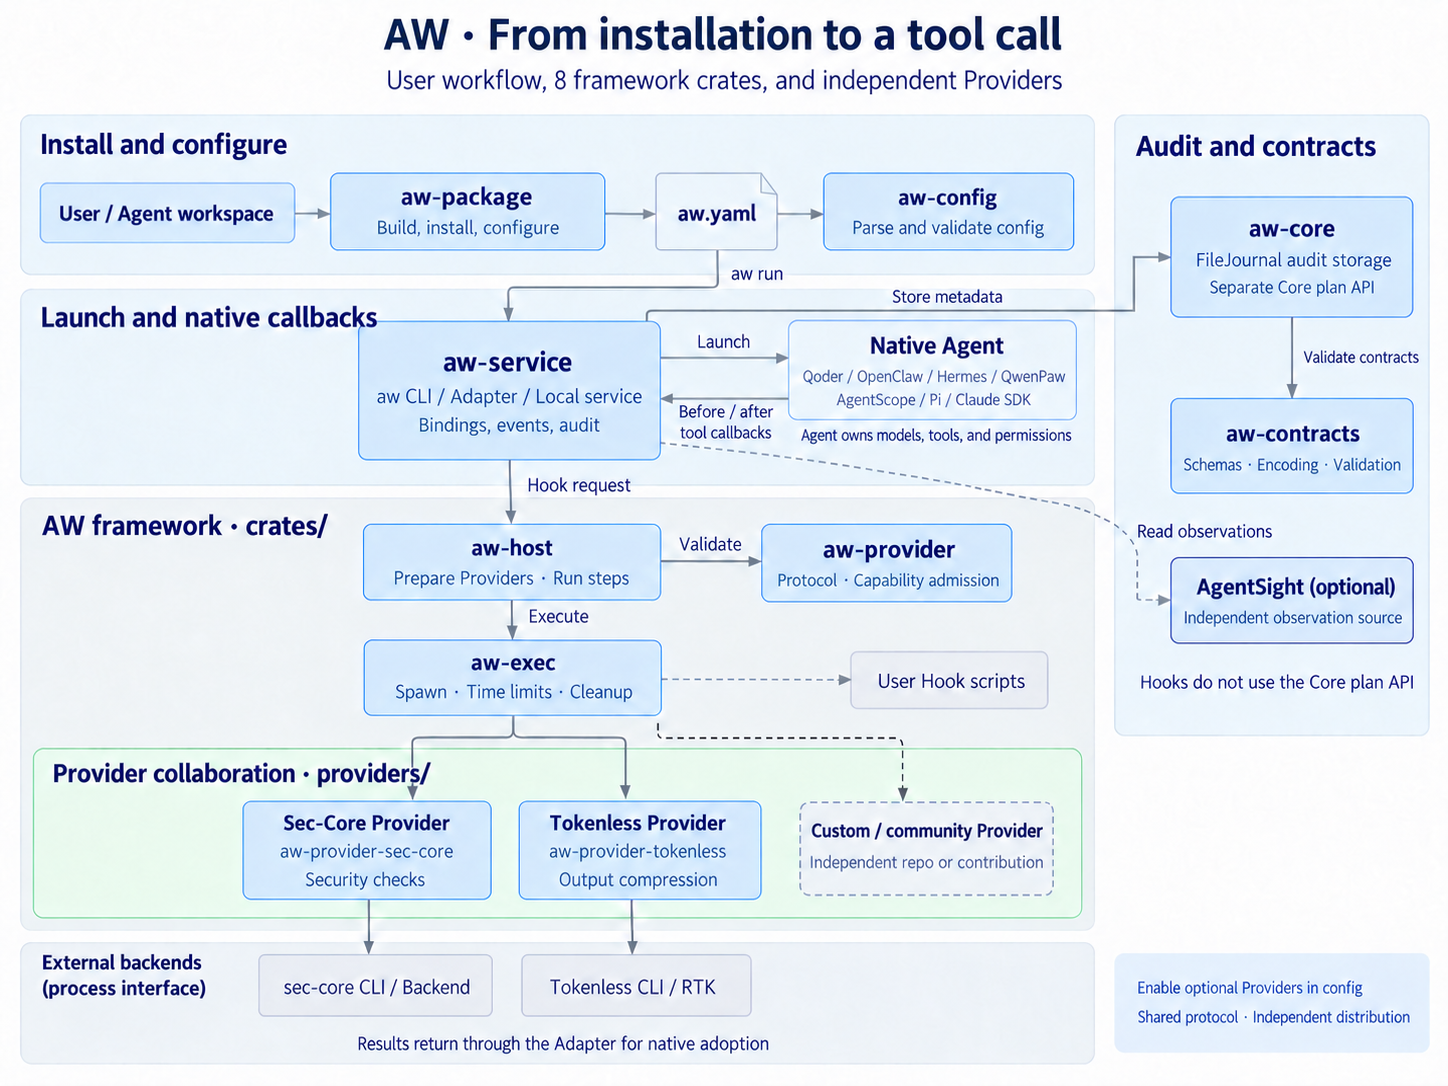
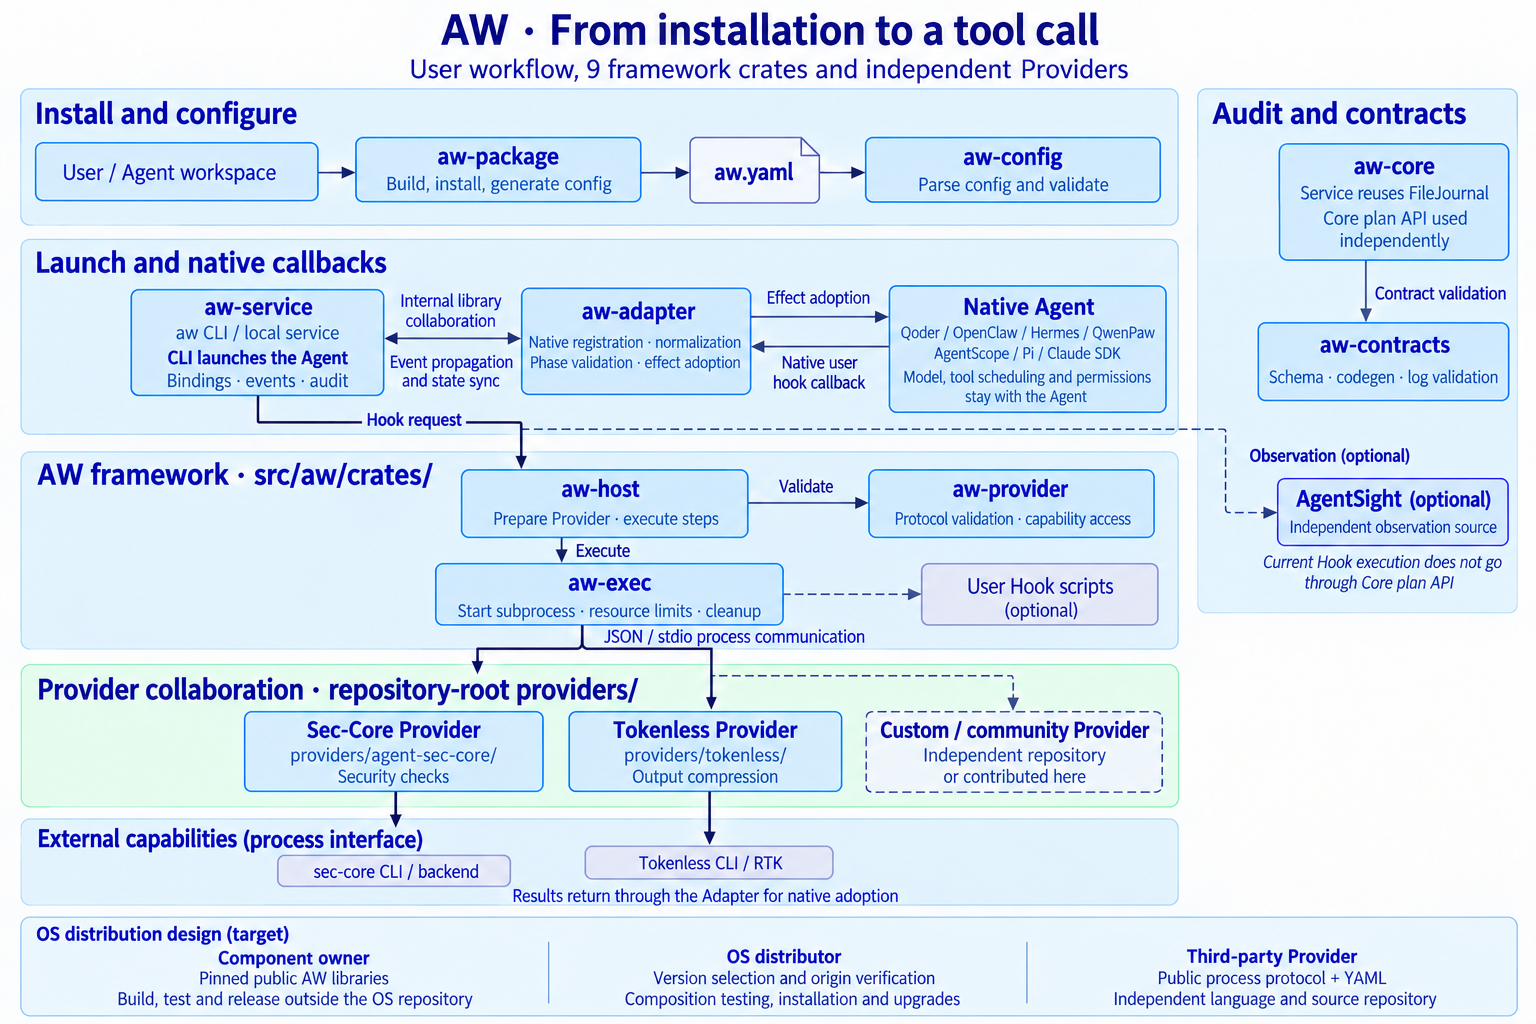
feat(docs): define AW distribution ownership
- Separate component release ownership from OS composition and delivery.
- Document pinned public SDK targets and current Preview build provenance.
- Update bilingual diagrams and guides for nine crates and external Providers.

diff --git a/src/aw/docs/design/architecture-boundaries.md b/src/aw/docs/design/architecture-boundaries.md
@@ -83,18 +83,39 @@ New versions use distinct names and IDs alongside supported older versions, with
 semantic validation and positive/negative fixtures. The schema inventory test
 requires each contract file to be registered, preventing unused runtime schemas.
 
-## Current distribution and deferred work
+## Component owners and the OS distributor
 
-Independent workspaces are implemented. Both Providers currently consume AW SDK
-crates through repository-local paths; Tokenless composition tests still reference
-the sec-core Provider. `aw-build` retains Preview composition, package contents
-and same-version/same-source installation requirements. Existing users need no
-configuration or installation-receipt migration.
+`providers/` is a source collaboration space; each component owns its build and
+release. The target is for each first-party Provider to build, test and release
+outside ANOLISA using only pinned public AW libraries for its AW integration.
+Its owner manages third-party and backend dependencies. Providers must not depend
+on service internals, another Provider's source or the complete OS source tree.
 
-Provider release entrypoints, pinned SDK consumption, artifact composition tests,
-distribution of published artifacts and protocol-based installation compatibility
-are a later stage. Receipt migration tests must accompany those installation-rule
-changes. Source separation alone does not implement these release capabilities.
+| Role | Responsibility and deliverables |
+| --- | --- |
+| AW maintainer | Public SDK, process protocol, compatibility tests and version compatibility boundaries |
+| Provider owner | Implementation, contract tests, pinned dependencies, versioned artifacts, backend requirements and installation instructions |
+| OS distributor | Version selection, source and checksum verification, composition testing, installation and upgrades |
+| Third-party implementer | An executable using the public process protocol, configured through YAML; language and repository are independent choices |
+
+The OS distributor consumes component artifacts without owning their internal
+implementation. Bundled backend dependencies enter distribution validation;
+externally installed Providers integrate through their public contract. The SDK
+is a source interface, while JSON/stdio is the runtime boundary. This does not
+promise a stable Rust binary ABI.
+
+### This migration and subsequent releases
+
+Independent workspaces, lockfiles and test entrypoints are implemented. Both
+Providers still use repository-local AW library paths, and Tokenless composition
+tests reference the sec-core Provider. Builds and releases outside the repository
+are not yet supported for these implementations.
+
+Preview currently delivers core and Providers as one build set. Installation
+therefore checks matching versions and source commits to establish their common
+origin. Published SDKs and Provider artifacts will underpin a compatibility matrix
+before installation rules change, with migration tests for old receipts. This
+migration requires no user configuration or receipt changes.
 
 ## Regression boundary
 

diff --git a/docs/developer-guide/en/aw/providers.md b/docs/developer-guide/en/aw/providers.md
@@ -22,6 +22,22 @@ Each directory under `providers/` owns a concrete integration, including its
 program, schemas, examples, and tests. Existing binaries retain the names
 `aw-provider-sec-core` and `aw-provider-tokenless`, preserving packages and commands.
 
+## OS distribution design
+
+The component owner maintains the implementation, tests, dependencies and release.
+The OS distributor selects versions, verifies origin and composition compatibility,
+and delivers installation packages and upgrade paths. Sharing a repository does
+not require a shared release cycle.
+
+First-party Providers should build, test and release outside the repository using
+pinned public AW libraries, with backend dependencies managed by their owners.
+Third parties can implement the public process protocol and connect through YAML,
+without linking Rust libraries or checking out ANOLISA. The distribution layer
+consumes component artifacts and validates bundled dependencies together.
+
+See [architecture boundaries](../../../../src/aw/docs/design/architecture-boundaries.md)
+for ownership and migration scope.
+
 ## Integrate independently
 
 1. Implement `describe`, `validate_config`, and `invoke` using JSON over stdin/stdout.
@@ -54,10 +70,11 @@ cargo build --locked --manifest-path providers/tokenless/Cargo.toml
 cargo test --locked --manifest-path providers/tokenless/Cargo.toml
 ```
 
-The bundled workspaces currently use repository-local AW SDK paths; Tokenless
-composition tests also depend on the sec-core bridge. Independent SDK publication
-and artifact-based composition are deferred. Existing Preview packages retain
-their matching-version and matching-source installation rules.
+The bundled workspaces currently use repository-local AW library paths; Tokenless
+composition tests also depend on the sec-core bridge. These implementations cannot
+yet build outside the repository. Pinned SDKs, independent releases and artifact
+composition tests are deferred. Preview delivers core and Providers as one build
+set, with installation checking matching versions and source commits.
 
 `aw-build` and `aw-package` currently package and install built-in components only;
 they do not automatically install arbitrary community Providers. Independent

diff --git a/docs/developer-guide/zh/aw/providers.md b/docs/developer-guide/zh/aw/providers.md
@@ -20,6 +20,17 @@ ANOLISA/
 具体集成，可以包含程序、Schema、配置示例和测试。现有二进制仍叫
 `aw-provider-sec-core`、`aw-provider-tokenless`，安装包和启动命令保持兼容。
 
+## OS 分发设计
+
+组件 owner 负责 Provider 的实现、测试、依赖与发布；OS 发行方选择组件版本，
+验证来源和组合兼容性，再交付安装包与升级路径。收录在同一仓库不等于共用发布周期。
+
+一方 Provider 的目标是仅依赖固定版本的公共 AW 库，在仓库外完成构建、测试和发布，
+自身后端依赖由 owner 管理。第三方可直接实现公开进程协议，通过 YAML 接入，
+无需链接 Rust 库或检出 ANOLISA。分发层消费各组件产物，负责随包依赖的组合验证。
+
+完整职责和迁移范围见[架构边界](../../../../src/aw/docs/design/architecture-boundaries_zh.md)。
+
 ## 独立接入
 
 1. 实现 `describe`、`validate_config` 和 `invoke`，通过 stdin/stdout 交换 JSON。
@@ -47,9 +58,9 @@ cargo build --locked --manifest-path providers/tokenless/Cargo.toml
 cargo test --locked --manifest-path providers/tokenless/Cargo.toml
 ```
 
-目前两个 workspace 通过仓库内路径复用 AW SDK，Tokenless 组合测试还依赖 sec-core
-桥接库。SDK 独立发布和基于产物的组合测试留待后续。现有 Preview 包继续要求
-core 与 Provider 使用相同版本和源码提交。
+目前两个 workspace 通过仓库内路径复用 AW 库，Tokenless 组合测试还依赖 sec-core
+桥接库，尚不能脱离仓库独立构建。固定版本 SDK、独立发布及产物级组合测试留待后续。
+Preview 将 core 与 Provider 作为一批构建产物交付，安装时校验版本和源码提交一致。
 
 `aw-build` 和 `aw-package` 当前只打包、安装内置组件，不能自动安装任意社区 Provider。
 独立安装不影响协议接入；加入统一安装包需另补打包清单和安装验收。

diff --git a/providers/README.md b/providers/README.md
@@ -28,13 +28,19 @@ For a contributed Provider, include:
 Each Rust implementation owns an independent Cargo workspace and lockfile.
 `providers/` has no shared workspace; framework crates never depend on concrete
 Providers. Other languages use their own toolchain and the same process protocol.
-Wire contract tests into the AW gate. Keep native framework adaptation in `aw-service` and backend
+Wire contract tests into the AW gate. Keep native framework adaptation in `aw-adapter` and backend
 behavior in the Provider.
 
+Component owners maintain implementations, dependencies and releases. The OS
+distributor selects versions, validates their composition and delivers installation
+and upgrades. First-party Providers should build, test and release outside the
+repository using pinned public AW libraries.
+
 The bundled Rust Providers currently use repository-local AW libraries; Tokenless
-composition tests also use the sec-core bridge. Standalone SDK publication and
-artifact-based composition are future work. The Preview package builder retains
-its matching-version and matching-source requirements for core and Providers.
+composition tests also use the sec-core bridge, so builds outside the repository
+are not yet supported. Standalone SDK publication and artifact-based composition
+are future work. Preview delivers a single build set, with installation checking
+matching versions and source commits for core and Providers.
 
 The existing package builder supports core, sec-core, and Tokenless. A new folder
 is not automatically bundled or installed; independent Providers supply their

diff --git a/providers/README_zh.md b/providers/README_zh.md
@@ -24,11 +24,14 @@ AW 框架与协议库留在 `../src/aw/crates/`。
 
 每个 Rust 实现拥有独立 Cargo workspace 和锁文件，`providers/` 不设置公共 workspace。
 框架 crate 不依赖具体 Provider。其他语言使用自己的工具链和相同进程协议，
-契约测试同样接入 AW 门禁。原生框架适配放在 `aw-service`，后端能力由 Provider 负责。
+契约测试同样接入 AW 门禁。原生框架适配放在 `aw-adapter`，后端能力由 Provider 负责。
+
+组件 owner 负责实现、依赖和发布；OS 发行方选择版本、验证组合并交付安装升级。
+一方 Provider 的目标是依赖固定版本的公共 AW 库，在仓库外构建、测试和发布。
 
 目前两个 Rust Provider 通过仓库内路径复用 AW 库，Tokenless 组合测试还使用 sec-core
-桥接库。SDK 独立发布和基于产物的组合测试留待后续；现有 Preview 包继续要求
-core 与 Provider 使用相同版本和源码提交。
+桥接库，尚不支持仓库外构建。SDK 独立发布和基于产物的组合测试留待后续。
+Preview 按同一批构建交付，安装时校验 core 与 Provider 的版本和源码提交一致。
 
 现有打包器支持 core、sec-core 和 Tokenless。新增目录不会自动加入安装包；
 独立 Provider 自带安装方式。若要纳入统一分发，还需补包清单、构建安装逻辑及生命周期测试。

diff --git a/src/aw/AGENTS.md b/src/aw/AGENTS.md
@@ -46,9 +46,15 @@ require a Provider to join this source tree. Follow the
 Each bundled Rust Provider owns its Cargo workspace, lockfile and toolchain.
 The AW workspace contains framework packages only; the gate combines independent
 test inventories without adding Provider members or dependencies to AW.
-Keep Preview same-version/same-source installation and receipt rules unchanged;
-independent publication and compatibility changes are a later stage. Preserve existing
-package and binary names when moving source directories. New Provider directories
+Provider owners own dependencies, tests and releases; the OS distributor selects
+versions, validates composition and delivers installation and upgrades. Target
+out-of-tree Provider builds against pinned public AW libraries. Third parties
+need only the public process protocol and YAML, not a Rust SDK or OS checkout.
+The bundled implementations still use local SDK paths. Preview delivers one
+build set and checks matching versions and source commits for common origin.
+Independent SDK publication and installation compatibility changes are a later
+stage, including receipt migration tests. Preserve existing package and binary
+names when moving source directories. New Provider directories
 do not automatically join the installer: inclusion requires explicit packaging
 and lifecycle validation.
 

diff --git a/providers/AGENTS.md b/providers/AGENTS.md
@@ -13,8 +13,16 @@ dependencies. Shared protocol and execution code remains in `src/aw/crates/`.
 Preserve existing package/binary names and `transport.argv` behavior when moving
 source. Do not copy shared library sources or embed backend code in the framework.
 
-The bundled Providers currently use repository-local SDK paths. Their existing
-Preview build and installation rules require matching versions and source commits.
+Provider owners own implementation, dependencies, tests and release artifacts.
+The OS distributor selects versions, verifies origin and compatibility, and owns
+composition, installation and upgrades. Target out-of-tree builds and releases
+against pinned public AW libraries; do not couple Providers to service internals,
+other Provider sources or the full OS checkout. Third parties can use the public
+process protocol and YAML without Rust libraries or repository membership.
+
+The bundled Providers currently use repository-local SDK paths; Tokenless tests
+also use the sec-core bridge. Preview delivers one build set, so installation
+checks matching versions and source commits to establish common origin.
 Independent SDK publication, artifact composition and installation compatibility
 changes need their own implementation and migration tests; directory separation
 does not imply that these release changes have shipped.

diff --git a/docs/developer-guide/en/aw/architecture.md b/docs/developer-guide/en/aw/architecture.md
@@ -12,8 +12,10 @@ calls, tool scheduling, and permission approval.
 ![AW user workflow and component architecture](../../../images/aw/architecture.png)
 
 This view follows user actions; arrows show runtime collaboration. The green
-area is the Provider contribution space. See the [Provider guide](providers.md)
-for independent development and distribution.
+area is the Provider contribution space. The footer shows target release ownership:
+component owners deliver components, and the OS distributor validates and combines
+artifacts. See the [Provider guide](providers.md) for current integration and
+subsequent release work.
 
 ## Crate relationships
 
